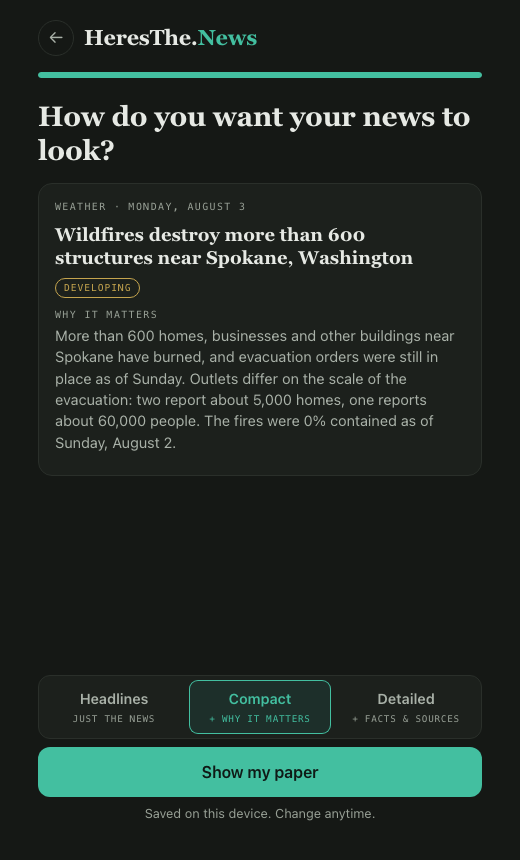
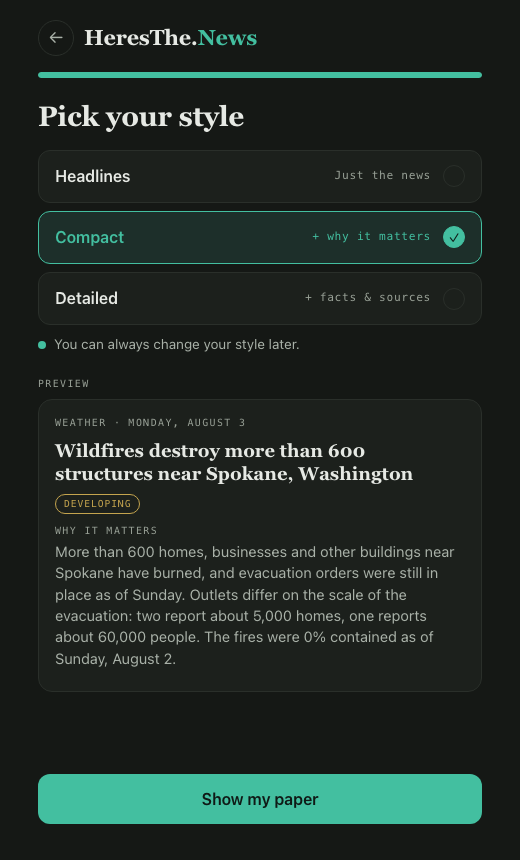
Screen 3 restructured like a goal picker: stacked style rows, reassurance, live preview
'Pick your style' with three full-width rows (label + what you get + tick),
'You can always change your style later' directly under the rows, then a
Preview label and the story re-rendering below. 'Show my paper' stays sticky.

diff --git a/style.css b/style.css
@@ -108,11 +108,17 @@ p{margin:0 0 14px;color:var(--ink-2)}
 .mode-compact .update-note,.mode-compact .facts-head,.mode-compact .facts,.mode-compact .srcs-head,.mode-compact .source-links{display:none}
 .mode-headlines .story-card,.mode-compact .story-card{padding-bottom:10px}
 
-/* ---------- style picker ---------- */
+/* ---------- style picker (stacked rows, like a goal picker) ---------- */
+.eyebrow{font-family:var(--mono);font-size:.62rem;letter-spacing:.14em;text-transform:uppercase;color:var(--ink-3);margin:0 0 8px}
+.choices{display:grid;gap:8px;margin:0 0 10px}
+.choice{position:relative;display:grid;grid-template-columns:auto 1fr auto;align-items:center;gap:12px;padding:14px 16px;border:1px solid var(--line);border-radius:12px;background:var(--card);cursor:pointer}
+.choice input{position:absolute;opacity:0;pointer-events:none}
+.choice .t{font-weight:600}
+.choice .d{font-family:var(--mono);font-size:.7rem;letter-spacing:.06em;color:var(--ink-3);text-align:right}
+.choice .tick{width:22px;height:22px;border-radius:50%;border:1.5px solid var(--line);display:flex;align-items:center;justify-content:center;font-size:13px;color:transparent}
+.choice.on{border-color:var(--green);background:var(--green-tint)}
+.choice.on .t,.choice.on .d{color:var(--green)}
+.choice.on .tick{background:var(--green);border-color:var(--green);color:var(--green-ink)}
+.note{display:flex;align-items:center;gap:8px;font-size:.85rem;color:var(--ink-2);margin:0 0 22px}
+.note .dot{width:8px;height:8px;border-radius:50%;background:var(--green);flex:none}
 .picker{position:sticky;bottom:0;margin-top:auto;padding:10px 0 4px;background:linear-gradient(to top,var(--paper) 78%,transparent)}
-.seg{display:grid;grid-template-columns:repeat(3,1fr);gap:4px;padding:4px;border:1px solid var(--line);border-radius:12px;background:var(--card);margin-bottom:8px}
-.seg label{position:relative;text-align:center;padding:9px 4px;border-radius:9px;cursor:pointer;font-weight:600;font-size:.9rem;color:var(--ink-2)}
-.seg label small{display:block;font-family:var(--mono);font-size:.58rem;letter-spacing:.08em;text-transform:uppercase;color:var(--ink-3);font-weight:400;margin-top:2px}
-.seg input{position:absolute;opacity:0;pointer-events:none}
-.seg label.on{background:var(--green-tint);color:var(--green);box-shadow:inset 0 0 0 1px var(--green)}
-.seg label.on small{color:var(--green)}

diff --git a/style.html b/style.html
@@ -14,18 +14,20 @@
   </header>
   <div class="progress" aria-label="Step 2 of 2"><span style="width:100%"></span></div>
 
-  <h1>How do you want your news to look?</h1>
+  <h1>Pick your style</h1>
 
+  <div class="choices" id="seg">
+    <label class="choice"><input type="radio" name="mode" value="headlines"><span class="t">Headlines</span><span class="d">Just the news</span><span class="tick">✓</span></label>
+    <label class="choice on"><input type="radio" name="mode" value="compact" checked><span class="t">Compact</span><span class="d">+ why it matters</span><span class="tick">✓</span></label>
+    <label class="choice"><input type="radio" name="mode" value="detailed"><span class="t">Detailed</span><span class="d">+ facts &amp; sources</span><span class="tick">✓</span></label>
+  </div>
+  <p class="note"><span class="dot"></span>You can always change your style later.</p>
+
+  <p class="eyebrow">Preview</p>
   <div id="example" class="mode-compact"></div>
 
   <div class="picker">
-    <div class="seg" id="seg">
-      <label><input type="radio" name="mode" value="headlines">Headlines<small>Just the news</small></label>
-      <label class="on"><input type="radio" name="mode" value="compact" checked>Compact<small>+ why it matters</small></label>
-      <label><input type="radio" name="mode" value="detailed">Detailed<small>+ facts & sources</small></label>
-    </div>
     <a class="btn btn-primary" href="https://heresthe.news" id="finish">Show my paper</a>
-    <p class="muted" style="margin:8px 0 0">Saved on this device. Change anytime.</p>
   </div>
 </div>
 <script src="story.js"></script>
@@ -37,7 +39,7 @@ if (saved) { const r = seg.querySelector(`input[value="${saved}"]`); if (r) r.ch
 function apply(){
   const m = seg.querySelector("input:checked").value;
   ex.className = "mode-"+m;
-  seg.querySelectorAll("label").forEach(l => l.classList.toggle("on", l.querySelector("input").checked));
+  seg.querySelectorAll(".choice").forEach(l => l.classList.toggle("on", l.querySelector("input").checked));
   localStorage.setItem("htn.style", m);
 }
 seg.addEventListener("change", apply);
